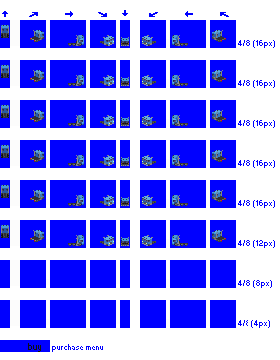
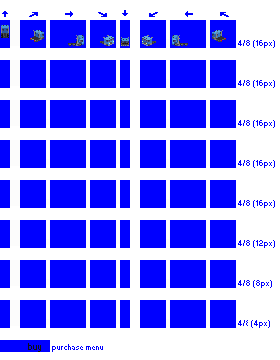
Change: make use of graphics file specified by config for trucks

diff --git a/src/build_bandit.py b/src/build_bandit.py
@@ -47,6 +47,7 @@ class Trailer(object):
         self.id = truck.id + '_trailer_' + str(i+1)
         self.trailer_capacity = int(truck.trailer_capacities[i])
         self.numeric_id = truck.numeric_id + i + 1
+        #self.trailer_graphics_file = global_constants.graphics_path + truck.trailer_graphics_files[i]
   
     def render(self, truck):
         template = templates['trailer_template.pynml']
@@ -76,13 +77,14 @@ class Truck(object):
         self.power = config.getint(id, 'power')
         self.smoke_offset = config.getint(id, 'smoke_offset')
         self.num_trailers = config.getint(id, 'num_trailers')
-        self.trailer_graphics_files = config.get(id, 'trailer_graphics_files').split('|')
-        self.truck_graphics_file = config.get(id, 'truck_graphics_file')
         self.fifth_wheel_truck_quota = config.getfloat(id, 'fifth_wheel_truck_quota')
         self.truck_capacity = config.getint(id, 'truck_capacity')  
         self.truck_length = config.getint(id, 'truck_length')
         self.trailer_capacities = config_option_to_list_of_ints(config.get(id, 'trailer_capacities'))
         self.trailer_lengths = config_option_to_list_of_ints(config.get(id, 'trailer_lengths'))
+        self.trailer_graphics_files = config.get(id, 'trailer_graphics_files').split('|')
+        self.truck_graphics_file = global_constants.graphics_path + config.get(id, 'truck_graphics_file')
+
     
         if self.truck_type == 'fifth_wheel_truck':
             self.modify_capacities_fifth_wheel_trucks()

diff --git a/src/global_constants.py b/src/global_constants.py
@@ -68,6 +68,8 @@ weight_factors = dict (
     HEAVY_DUTY_LONG_HAUL       = 1.6,
 )
 
+graphics_path = 'src/graphics/' # this is for nml, don't need to use python path module here
+
 # provide mapping of truck_type strings to numbers for use in range checks etc
 # constants like this are one case where c pre-processor was a little more elegant than python 
 truck_type_nums = {
